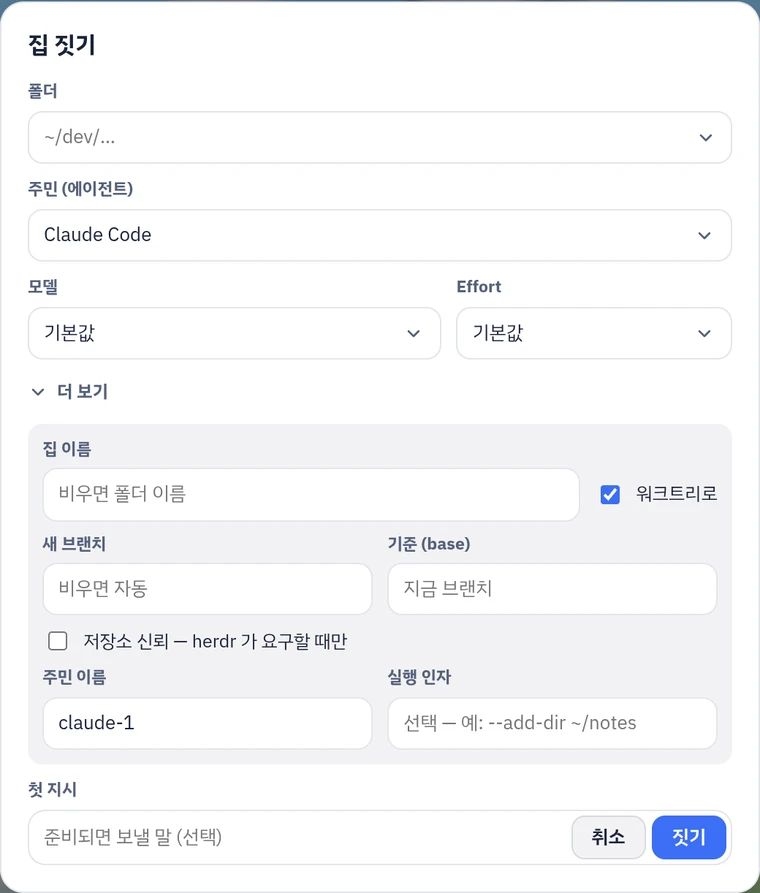
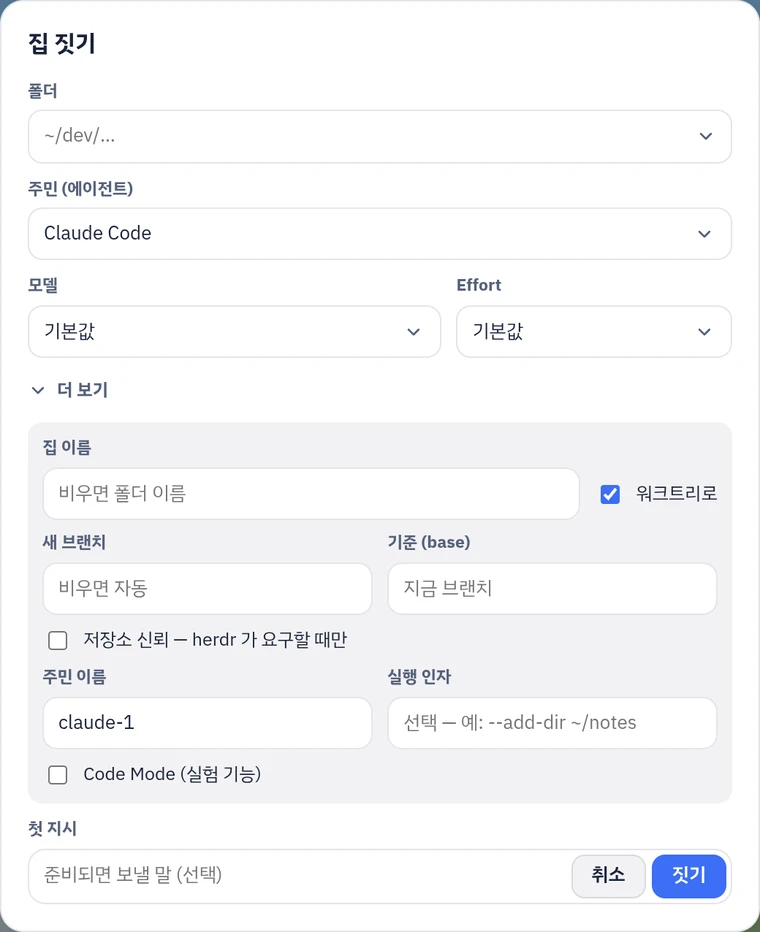
홈페이지의 집 짓기 그림을 Code Mode 체크가 들어간 모습으로 다시 찍는다

diff --git a/docs/index.html b/docs/index.html
@@ -521,7 +521,7 @@ html.js .reveal.in { opacity: 1; transform: none; }
       </p></div>
     </div>
     <figure class="reveal" style="max-width:420px;margin-inline:auto">
-      <div class="shot"><img src="img/build.webp" width="760" height="893" loading="lazy" alt="집 짓기 대화상자. 폴더, 주민(에이전트), 모델과 Effort, 첫 지시 칸이 있고, 펼친 ‘더 보기’ 안에 집 이름, 워크트리, 주민 이름, 실행 인자 칸이 있다"></div>
+      <div class="shot"><img src="img/build.webp" width="760" height="932" loading="lazy" alt="집 짓기 대화상자. 폴더, 주민(에이전트), 모델과 Effort, 첫 지시 칸이 있고, 펼친 ‘더 보기’ 안에 집 이름, 워크트리, 주민 이름, 실행 인자 칸과 Code Mode 체크가 있다"></div>
     </figure>
   </div>
 </section>
